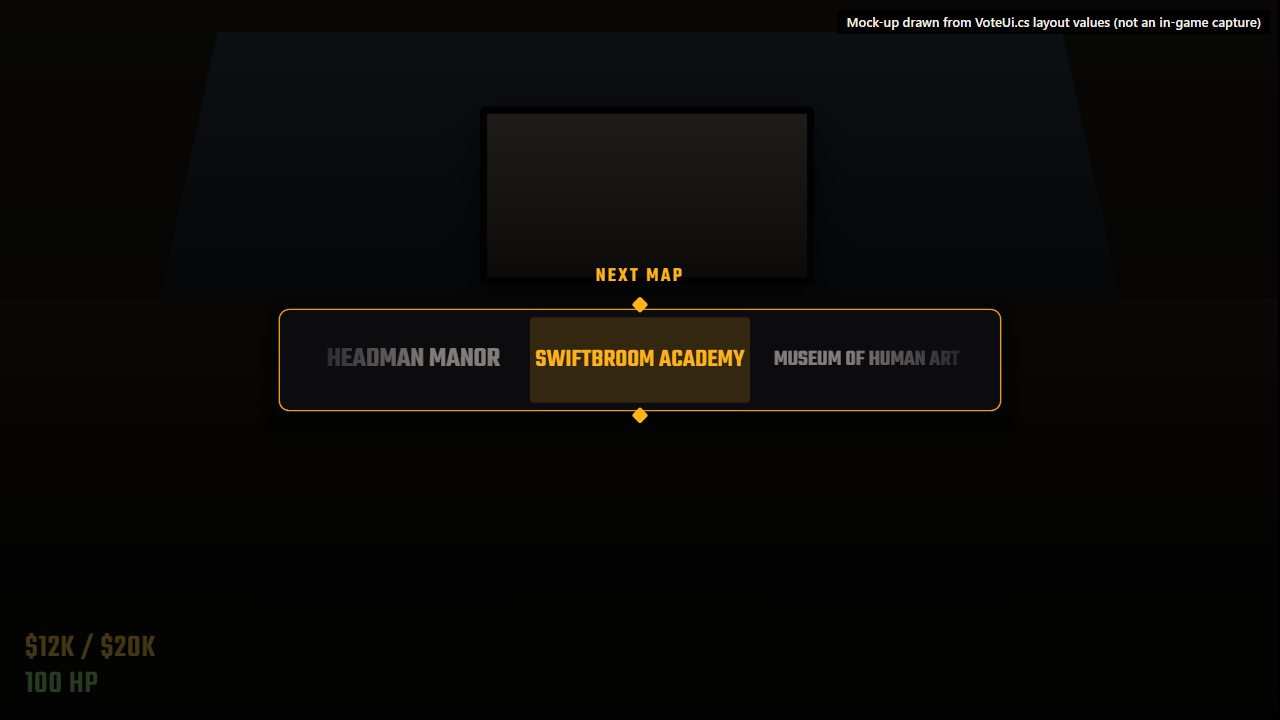
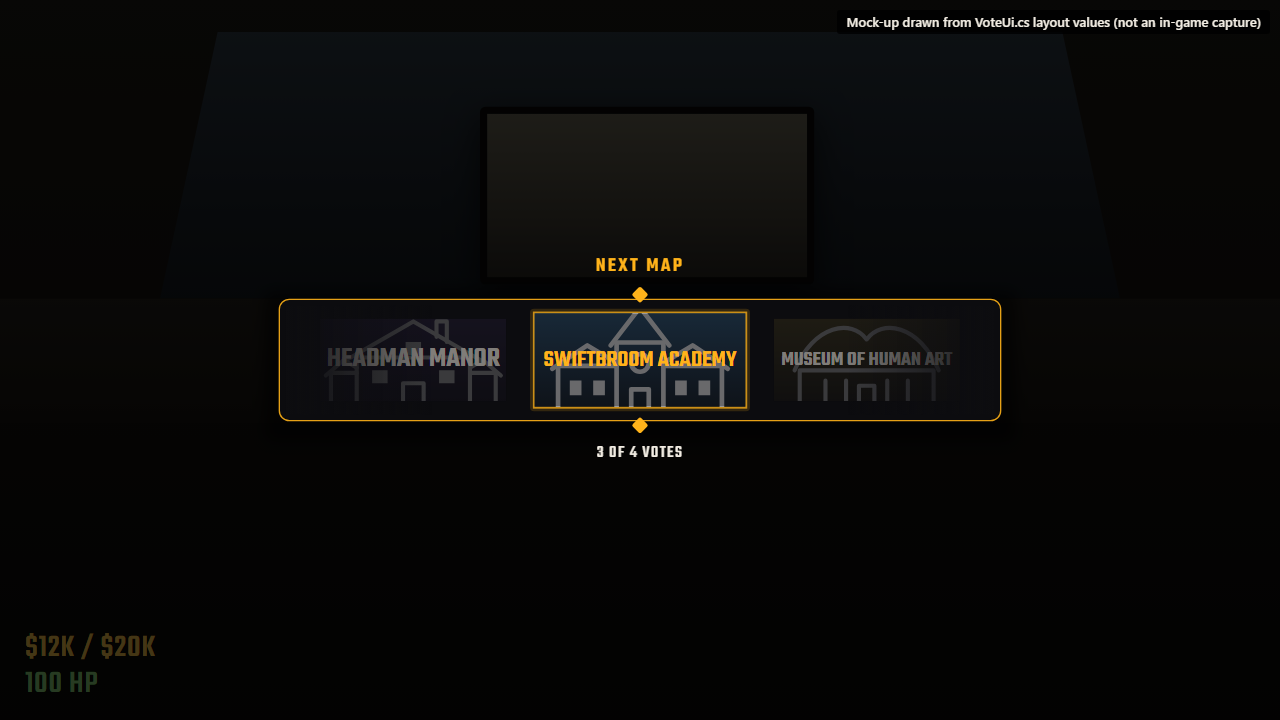
Show map art and how the winner won on the reveal reel
Each reel card now shows its level's loading-screen art under a dark wash,
with the name on top. Maps with no art get their initial on their colour,
and Random or a map this client doesn't have gets a "?", as on the vote
list. Cards fade and shrink away from the centre as a whole. The winner's
card gets an amber frame that flares with the landing punch.

Once the reel lands, a line under it says how the winner won: "3 OF 4
VOTES", "ALL 4 VOTES", "THE ONLY VOTE", "2 OF 3 VOTES FOR RANDOM", or
"NOBODY VOTED  /  RANDOM MAP". The ballots are counted once, when the reel
starts. The window is 30 units taller to give the art room. Timing, ticks
and the landing are unchanged.

diff --git a/docs/mockups/mock-reveal.html b/docs/mockups/mock-reveal.html
@@ -1,7 +1,8 @@
 <!doctype html>
 <!--
   Mock-up of the reveal reel the moment it lands, over the truck. The reel is VoteUi's overlay canvas, drawn here in
-  its 1920x1080 reference units (scaled to 1280x720); values mirror BuildReveal and AnimateReveal in src/VoteUi.cs.
+  its 1920x1080 reference units (scaled to 1280x720); values mirror BuildReveal, BuildCell and AnimateReveal in
+  src/VoteUi.cs. Each card shows its level's loading-screen art (line-art stand-ins here) under a dark wash.
   The truck's HUD box hides while the reel is up. Not an in-game capture. Render with docs/mockups/render.ps1.
 -->
 <html lang="en">
@@ -29,8 +30,8 @@
     transform: scale(0.666667); transform-origin: 0 0; font-family: Teko, sans-serif;
   }
   .dim { position: absolute; inset: 0; background: rgba(0, 0, 0, 0.72); }
-  /* Body: WindowWidth 1080 x WindowHeight 150, dead centre */
-  .body { position: absolute; left: 420px; top: 465px; width: 1080px; height: 150px; }
+  /* Body: WindowWidth 1080 x WindowHeight 180, dead centre */
+  .body { position: absolute; left: 420px; top: 450px; width: 1080px; height: 180px; }
   .title {
     position: absolute; left: 0; right: 0; top: -68px; height: 36px; text-align: center;
     font: 600 30px/36px Teko, sans-serif; letter-spacing: 0.12em; color: #ffb31a;
@@ -41,14 +42,27 @@
     border-radius: 14px; background: rgba(0, 0, 0, 0.5); filter: blur(10px);
   }
   .frame { position: absolute; inset: -2px; border: 2px solid rgba(255, 179, 26, 0.9); border-radius: 16px; }
-  /* Centre highlight: CellWidth - 10 by WindowHeight - 22, amber at 0.16 once landed */
-  .centre { position: absolute; left: 375px; top: 11px; width: 330px; height: 128px; border-radius: 6px; background: rgba(255, 179, 26, 0.16); }
+  /* Centre glow: the card plus 7 all round, amber at 0.16 once landed */
+  .centre { position: absolute; left: 375px; top: 13px; width: 330px; height: 154px; border-radius: 6px; background: rgba(255, 179, 26, 0.16); }
   .mask { position: absolute; inset: 8px; overflow: hidden; }
-  /* Cells: CellWidth 340 apart, 316x88, auto-sized 24-48 to fit. Landed: neighbours scale 0.88 and fade to half. */
-  .cell {
-    position: absolute; top: 23px; width: 316px; height: 88px; margin-left: -158px;
-    display: flex; align-items: center; justify-content: center;
+  /* Cards: CellWidth 340 apart, 316x140 (CardWidth x CardHeight). Landed: neighbours scale 0.88 and fade to half. */
+  .cell { position: absolute; top: 12px; width: 316px; height: 140px; margin-left: -158px; }
+  /* The level's art, centre-cropped to the card (MapInfo.Crop), on a stand-in scene colour */
+  .art { position: absolute; inset: 0; background-position: center; background-size: cover; background-repeat: no-repeat; }
+  /* Wash: Panel at WashAlpha 0.62, so the name reads over bright art */
+  .wash { position: absolute; inset: 0; background: rgba(13, 13, 16, 0.62); }
+  /* The name, auto-sized 24-48 to fit, 10 in from each side */
+  .name {
+    position: absolute; inset: 0 10px; display: flex; align-items: center; justify-content: center;
     font: 600 48px/1 Teko, sans-serif; color: #f3eee4; white-space: nowrap;
+  }
+  /* The winner's frame, 3 out from its card, amber at 0.75 once the punch has settled */
+  .cell.winner::before { content: ""; position: absolute; inset: -3px; background: rgba(255, 179, 26, 0.75); }
+  .cell.winner .name { color: #ffb31a; }
+  /* The vote line: 66 under the window, 32 tall, 26 with 8 spacing */
+  .votes {
+    position: absolute; left: 0; right: 0; top: 214px; height: 32px; text-align: center;
+    font: 500 26px/32px Teko, sans-serif; letter-spacing: 0.08em; color: #f3eee4;
   }
   .fade { position: absolute; top: 8px; bottom: 8px; width: 220px; }
   .fade.l { left: 8px; background: linear-gradient(to right, #0d0d10, rgba(13, 13, 16, 0)); }
@@ -73,23 +87,33 @@
       <div class="frame"></div>
       <div class="centre"></div>
       <div class="mask">
-        <!-- x relative to the mask centre (532): -340, 0, +340 -->
-        <div class="cell" style="left:192px;transform:scale(0.88);opacity:0.5">HEADMAN MANOR</div>
-        <div class="cell" style="left:532px;color:#ffb31a">SWIFTBROOM ACADEMY</div>
-        <div class="cell" style="left:872px;transform:scale(0.88);opacity:0.5">MUSEUM OF HUMAN ART</div>
+        <!-- x relative to the mask centre (532): -340, 0, +340. Scene colours are the lobby mock-up's map colours. -->
+        <div class="cell" style="left:192px;transform:scale(0.88);opacity:0.5">
+          <div class="art" style="background-image:url('art/manor.svg'),linear-gradient(#3b2d5e,#1a1428)"></div>
+          <div class="wash"></div><div class="name">HEADMAN MANOR</div>
+        </div>
+        <div class="cell winner" style="left:532px">
+          <div class="art" style="background-image:url('art/academy.svg'),linear-gradient(#2b5577,#121e2a)"></div>
+          <div class="wash"></div><div class="name">SWIFTBROOM ACADEMY</div>
+        </div>
+        <div class="cell" style="left:872px;transform:scale(0.88);opacity:0.5">
+          <div class="art" style="background-image:url('art/museum.svg'),linear-gradient(#6b5c27,#231e10)"></div>
+          <div class="wash"></div><div class="name">MUSEUM OF HUMAN ART</div>
+        </div>
       </div>
       <div class="fade l"></div>
       <div class="fade r"></div>
       <div class="marker" style="top:-17px"></div>
       <div class="marker" style="bottom:-17px"></div>
     </div>
+    <div class="votes">3 OF 4 VOTES</div>
   </div>
 </div>
 <div class="tag">Mock-up drawn from VoteUi.cs layout values (not an in-game capture)</div>
 <script>
-  // TMP auto-size: shrink each name until it fits its 316-unit cell (24 minimum).
+  // TMP auto-size: shrink each name until it fits its card, 10 in from each side (24 minimum).
   document.fonts.ready.then(() => {
-    for (const cell of document.querySelectorAll('.cell')) {
+    for (const cell of document.querySelectorAll('.name')) {
       let size = 48;
       while (cell.scrollWidth > cell.clientWidth && size > 24) cell.style.fontSize = `${--size}px`;
     }

diff --git a/src/VoteUi.cs b/src/VoteUi.cs
@@ -10,14 +10,21 @@ namespace MapVote;
 /// <summary>
 /// The overlay pieces, built in code on one canvas. The vote list itself is a game menu: see <see cref="NativeBoard"/>.
 ///  - Chip: a small HUD pill in the truck that says what is going on and which key opens the vote.
-///  - Reveal: a slot-machine reel that lands on the winner for everyone at the same time.
+///  - Reveal: a slot-machine reel of map cards that lands on the winner for everyone at the same time, then says how
+///    it won.
 /// Also routes the keyboard: the toggle key opens the truck vote, and 1-9 / R vote on whichever board has focus.
 /// And opens the truck vote by itself on arrival (ShowVoteOnArrival), so each player picks a map or skips first.
 /// </summary>
 internal sealed class VoteUi : MonoBehaviour
 {
     private const float CellWidth = 340f, SpinSeconds = 3.3f, HoldSeconds = 2.8f;
-    private const float WindowWidth = 1080f, WindowHeight = 150f;
+    private const float WindowWidth = 1080f, WindowHeight = 180f;
+    /// <summary>Each map's card on the reel: its art with its name over it, with a gap to the next card.</summary>
+    private const float CardWidth = CellWidth - 24f, CardHeight = WindowHeight - 40f;
+    /// <summary>How dark the wash over each card's art is, so the name on it stays readable over bright art.</summary>
+    private const float WashAlpha = 0.62f;
+    /// <summary>Where the vote line sits under the window, mirroring the title above it.</summary>
+    private const float VotesY = -66f;
     /// <summary>How long after arriving in the truck the vote opens by itself, so the player sees where they are first.</summary>
     private const float PromptDelay = 1f;
 
@@ -35,12 +42,21 @@ internal sealed class VoteUi : MonoBehaviour
     private RectTransform _reveal = null!, _revealBody = null!, _window = null!, _reel = null!;
     private CanvasGroup _revealGroup = null!;
     private Image _revealCenter = null!;
-    private TextMeshProUGUI _revealTitle = null!;
-    private readonly List<TextMeshProUGUI> _cells = new();
+    private TextMeshProUGUI _revealTitle = null!, _revealVotes = null!;
+    private readonly List<ReelCell> _cells = new();
+    private Image? _winnerFrame;
     private string? _reelFor;
     private int _reelWinner, _lastTickCell;
-    private float _reelStart = -999f, _punch;
+    private float _reelStart = -999f, _punch, _votesT;
     private bool _landed;
+
+    /// <summary>One card on the reel. Its group fades the art and the name together.</summary>
+    private sealed class ReelCell
+    {
+        public RectTransform Rect = null!;
+        public CanvasGroup Group = null!;
+        public TextMeshProUGUI Name = null!;
+    }
 
     private VoteContext _context, _lastContext;
     private int _seenRevision = -1;
@@ -233,25 +249,92 @@ internal sealed class VoteUi : MonoBehaviour
         if (weighted.Count == 0) weighted = candidates.ToList();
         const int cellCount = 34;
         _reelWinner = cellCount - 4;
-        foreach (var c in _cells) Destroy(c.gameObject);
+        foreach (var c in _cells) Destroy(c.Rect.gameObject);
         _cells.Clear();
         string? prev = null;
         for (int i = 0; i < cellCount; i++)
         {
             string name = i == _reelWinner ? winner : PickWeighted(weighted, odds, prev);
             prev = name;
-            var cell = Ui.Label("Cell", _reel, 48f, Ui.Text, TextAlignmentOptions.Center);
-            cell.rectTransform.Place(new Vector2(0.5f, 0.5f), Vector2.zero, new Vector2(CellWidth - 24f, 88f));
-            cell.text = MapInfo.DisplayName(name);
-            cell.enableAutoSizing = true;
-            cell.fontSizeMin = 24f;
-            cell.fontSizeMax = 48f;
-            _cells.Add(cell);
+            _cells.Add(BuildCell(name, i == _reelWinner));
         }
         _revealTitle.text = "NEXT MAP";
         _revealTitle.color = Ui.Muted;
+        // Counted once, here: the ballots are frozen while the reel spins.
+        _revealVotes.text = VoteLine(winner, candidates);
+        _votesT = 0f;
         Ui.Sound(m => m.MenuEffectPopUpOpen());
     }
+
+    /// <summary>A map's card: its art under a dark wash, its name on top. The winner's has a frame that lights when it lands.</summary>
+    private ReelCell BuildCell(string name, bool winner)
+    {
+        var rect = Ui.Rect("Cell", _reel).Place(new Vector2(0.5f, 0.5f), Vector2.zero, new Vector2(CardWidth, CardHeight));
+        if (winner)
+        {
+            _winnerFrame = Ui.Image("Frame", rect, Ui.Amber.WithAlpha(0f));
+            _winnerFrame.rectTransform.Fill(-3, -3, -3, -3);
+        }
+        CardArt(rect, name);
+        Ui.Image("Wash", rect, Ui.Panel.WithAlpha(WashAlpha)).rectTransform.Fill();
+
+        var label = Ui.Label("Name", rect, 48f, Ui.Text, TextAlignmentOptions.Center);
+        label.rectTransform.Fill(10, 0, 10, 0);
+        label.text = MapInfo.DisplayName(name);
+        label.enableAutoSizing = true;
+        label.fontSizeMin = 24f;
+        label.fontSizeMax = 48f;
+        return new ReelCell { Rect = rect, Group = rect.gameObject.AddComponent<CanvasGroup>(), Name = label };
+    }
+
+    /// <summary>
+    /// The level's loading-screen art, as on the vote list: its initial on its colour when it has none, and a "?" for
+    /// Random or for a map this client doesn't have.
+    /// </summary>
+    private static void CardArt(RectTransform card, string name)
+    {
+        var image = Ui.Rect("Art", card).Fill().gameObject.AddComponent<RawImage>();
+        image.raycastTarget = false;
+        // Random isn't a level, so it takes the "?" too.
+        var info = VoteSession.TryGetPoolLevel(name, out var level) ? MapInfo.Get(level) : null;
+        if (info?.Art)
+        {
+            image.texture = info!.Art;
+            image.uvRect = MapInfo.Crop(info.ArtUv, info.Art!, CardWidth / CardHeight);
+            return;
+        }
+
+        image.color = info != null ? Color.Lerp(Ui.Ink, info.Color, 0.55f) : Ui.Amber.WithAlpha(0.22f);
+        var mark = Ui.Label("Mark", image.rectTransform, CardHeight * 0.8f, info != null ? Ui.Ink.WithAlpha(0.75f) : Ui.Amber,
+            TextAlignmentOptions.Center, FontStyles.Normal);
+        mark.rectTransform.Fill();
+        mark.text = info == null ? "?" : info.Name.Length > 0 ? info.Name.Substring(0, 1) : "?";
+    }
+
+    /// <summary>
+    /// How the winner won, from the ballots: "3 OF 4 VOTES", or the Random ballots it came through, or nobody voting.
+    /// It states the count and nothing about how the winner was drawn, so it reads right whatever the vote rules are.
+    /// </summary>
+    private static string VoteLine(string winner, IReadOnlyList<string> candidates)
+    {
+        int total = 0, forWinner = 0, forRandom = 0;
+        foreach (var ballot in VoteSession.Votes.Values)
+        {
+            if (ballot == winner) forWinner++;
+            else if (ballot == VoteLogic.RandomChoice) forRandom++;
+            else if (!candidates.Contains(ballot)) continue; // a ballot for a map that isn't up counts for nothing
+            total++;
+        }
+
+        if (total == 0) return "NOBODY VOTED  /  RANDOM MAP";
+        if (forWinner == 0 && forRandom > 0)
+            return total == 1 ? "THE ONLY VOTE WAS RANDOM" : $"{Tally(forRandom, total)} FOR RANDOM";
+        return Tally(forWinner, total);
+    }
+
+    private static string Tally(int votes, int total) =>
+        votes != total ? $"{votes} OF {total} {(total == 1 ? "VOTE" : "VOTES")}"
+        : total == 1 ? "THE ONLY VOTE" : $"ALL {total} VOTES";
 
     private static string PickWeighted(List<string> names, Dictionary<string, float> odds, string? avoid)
     {
@@ -305,18 +388,27 @@ internal sealed class VoteUi : MonoBehaviour
             var cell = _cells[i];
             float x = i * CellWidth - offset;
             bool near = Mathf.Abs(x) < CellWidth * 2.6f;
-            if (cell.gameObject.activeSelf != near) cell.gameObject.SetActive(near);
+            var go = cell.Rect.gameObject;
+            if (go.activeSelf != near) go.SetActive(near);
             if (!near) continue;
+            // The whole card, art and name, shrinks and fades away from the centre.
             float d = Mathf.Clamp01(Mathf.Abs(x) / (CellWidth * 1.7f));
-            cell.rectTransform.anchoredPosition = new Vector2(x, 0);
-            cell.rectTransform.localScale = Vector3.one * (1f - 0.2f * d + (i == _reelWinner ? _punch * 0.12f : 0f));
-            var colour = _landed && i == _reelWinner ? Ui.Amber : Ui.Text;
-            cell.color = colour.WithAlpha(1f - d * 0.85f);
+            cell.Rect.anchoredPosition = new Vector2(x, 0);
+            cell.Rect.localScale = Vector3.one * (1f - 0.2f * d + (i == _reelWinner ? _punch * 0.12f : 0f));
+            cell.Group.alpha = 1f - d * 0.85f;
+            cell.Name.color = _landed && i == _reelWinner ? Ui.Amber : Ui.Text;
         }
 
         _punch = Ui.Damp(_punch, 0f, 6f);
         _window.localScale = Vector3.one * (1f + _punch * 0.05f);
         _revealCenter.color = Ui.Amber.WithAlpha(_landed ? 0.16f + _punch * 0.3f : 0.07f);
+        // The winner's frame flares with the punch and stays lit.
+        if (_winnerFrame) _winnerFrame!.color = Ui.Amber.WithAlpha(_landed ? 0.75f + 0.25f * _punch : 0f);
+
+        // How it won rises into place under the winner once it lands.
+        _votesT = Ui.Damp(_votesT, _landed ? 1f : 0f, 8f);
+        _revealVotes.color = Ui.Text.WithAlpha(_votesT);
+        _revealVotes.rectTransform.anchoredPosition = new Vector2(0f, VotesY - (1f - _votesT) * 12f);
     }
 
     // ---- layout --------------------------------------------------------------------------
@@ -385,19 +477,23 @@ internal sealed class VoteUi : MonoBehaviour
         _revealTitle = Ui.Label("Title", _revealBody, 30f, Ui.Muted, TextAlignmentOptions.Center);
         _revealTitle.rectTransform.Place(new Vector2(0.5f, 1), new Vector2(0, 68), new Vector2(WindowWidth, 36));
         _revealTitle.characterSpacing = 12f;
+        _revealVotes = Ui.Label("Votes", _revealBody, 26f, Ui.Text.WithAlpha(0f), TextAlignmentOptions.Center);
+        _revealVotes.rectTransform.Place(new Vector2(0.5f, 0), new Vector2(0, VotesY), new Vector2(WindowWidth, 32));
+        _revealVotes.characterSpacing = 8f;
 
         _window = Ui.Rect("Window", _revealBody).Fill();
         Shadow(_window, 24f);
         Ui.Image("Frame", _window, Ui.Amber.WithAlpha(0.9f), Ui.Rounded).rectTransform.Fill(-2, -2, -2, -2);
         Ui.Image("Bg", _window, Ui.Panel, Ui.Rounded).rectTransform.Fill();
+        // A glow round the centre card, under the reel.
         _revealCenter = Ui.Image("Centre", _window, Ui.Amber.WithAlpha(0.07f), Ui.RoundedSmall);
-        _revealCenter.rectTransform.Place(new Vector2(0.5f, 0.5f), Vector2.zero, new Vector2(CellWidth - 10f, WindowHeight - 22f));
+        _revealCenter.rectTransform.Place(new Vector2(0.5f, 0.5f), Vector2.zero, new Vector2(CardWidth + 14f, CardHeight + 14f));
 
         var mask = Ui.Rect("Mask", _window).Fill(8, 8, 8, 8);
         mask.gameObject.AddComponent<RectMask2D>();
         _reel = Ui.Rect("Reel", mask).Place(new Vector2(0.5f, 0.5f), Vector2.zero, Vector2.zero);
 
-        // Edge fades so names slide in and out instead of being cut.
+        // Edge fades so cards slide in and out instead of being cut.
         var leftFade = Ui.Image("FadeL", _window, Ui.Panel, Ui.FadeRight).rectTransform;
         leftFade.Place(new Vector2(0, 0.5f), new Vector2(8, 0), new Vector2(220, WindowHeight - 16f));
         leftFade.localScale = new Vector3(-1, 1, 1);
